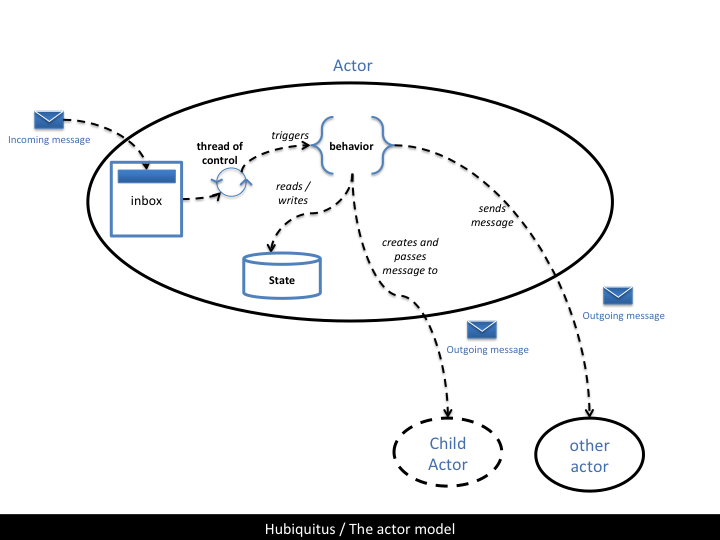
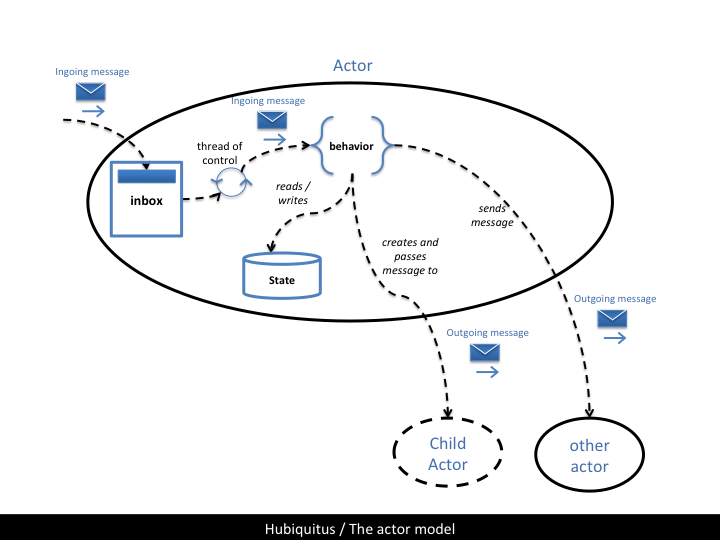
Reference and Introduction merged

diff --git a/docs/Reference.md b/docs/Reference.md
@@ -4,20 +4,49 @@
 
 This document describes the internals of the Hubiquitus framework.
 
-## Hubiquitus at a glance
+## Introduction
 
-Hubiquitus aims to provide a simple way to develop distributed applications as networks of *smart agents*, hosted on various software platforms and user devices, that pass messages to each other to communicate.
+### The question
+
+The post-PC era has come, marked by the emergence of plenty of digital devices - e-readers, smartphones, tablets, TVs, home weather stations, watches, snowboard goggles, tennis rackets, running shoes, boilers, supply meters, and so on - each of them especially adapted to a specific range of use cases and contexts.
+
+More than screens, such devices now ship with an ever growing list of sensors - accelerometers, gyrometers, compass, microphones, cameras, GPS - that permanently observe their immediate proximity, thus enriching the global context data - time, social network posts, open data updates - with local live measures.
+
+Taking advantage of this new digital space involves new requirements regarding the way we build apps:
+
+* **ubiquity**: we need to deploy our apps to any kind of device, operating system or platform.
+* **awareness**: we need to be able to collect any kind of context data - should it come from local sensors, social networks, open data APIs or any other API providing live context data - and send it to any application that could need it.
+* **immediacy**: context moves quickly so its state should be streamed and processed as fast as possible.
+* **persistence**: we should be able to store the context data so that it could be further queried, processed or even replayed.
+
+### Our answer
+
+Hubiquitus aims to provide a simple way to develop apps that fulfill with these requirements. It is basically an ubiquitous programming model for building context-aware distributed live apps as networks of *smart agents*, deployed to various platforms and devices, that use messages to communicate with each other in near real-time.
+
+![agents network](https://github.com/hubiquitus/hubiquitus/raw/master/docs/images/AgentsNetwork.jpg)
+
+The Hubiquitus framework provides the following features:
+
+* **actor-based apps**: the *smart agents* developed using Hubiquitus are basically made of actors, a lightweight form of concurrent computational entities that sequentially process messages from an event-driven receive loop called a Reactor. Each actor makes its own decisions regarding what to do with incoming messages.
+* **message-driven communication**: like humans, Hubiquitus actors are autonomous entities which state is not shared nor synchronized with other actors state. This "share nothing" strategy is enforced by using an asynchronous message-driven communication between actors. Hubiquitus actors can exchange messages through either a point-to-point, a request-reply, a publish-subscribe, a master-worker strategy or a combination of these patterns. Hubiquitus also provides a dynamic content-based message filtering system.
+* **p2p connections**: Hubiquitus adopts a broker-less P2P distribution model in which actors discover and connect each other dynamically at runtime, thus allowing to implement easily resilient and elastic architectures. Peering also provides more direct connections which contribute to reduce communication latency.
+* **fast & lightweight transport**: actors connect each other using various forms of sockets used to transport messages using a very small footprint transport protocol  ; the combination of PGM, TCP and HTML5 Web sockets allows covering most network topologies.
+* **historical data**: the whole messaging history can be transparently logged into various persistent stores.
+* **JavaScript SDK**: the dynamic scripting language of the web may not be the perfect language we all dream about, but it is undoubtedly the most ubiquitous one. It allows developers to code apps that are able to reach practically any device running a JavaScript engine.
+* **bridges to the outside world**: even JavaScript can't run on every platforms, so Hubiquitus provides native bindings for major platforms such as iOS, Android and Windows 8. Hubiquitus also provides a wide range of network adapters allowing to integrate your apps with social networks (Twitter, Google+, …), push notification services (APNS, GCM, …)
+
+## Hubiquitus concepts
 
 ### Actors
 
-The *smart agents* of Hubiquitus are indeed *actors*, as the [Actor Model](http://en.wikipedia.org/wiki/Actor_model) paradigm define them:
+The *smart agents* of Hubiquitus are made of *actors*, as the [Actor Model](http://en.wikipedia.org/wiki/Actor_model) paradigm defines them:
 
 > **An actor is a form of lightweight computational entity that process sequentially incoming messages it receives**
 
 The fundamental properties of an actor are:
 
-* each actor has an **inbox** for incoming messages, a kind of FIFO queue into which other actors can post messages to be processed,
-* each actor has its proper **behavior** that is triggered sequentially for each message received in its inbox,
+* each actor has an **inbox**, a kind of FIFO queue into which other actors and programs can post messages to be processed,
+* each actor implements its own **behavior**, a function that is triggered sequentially for each message received in its inbox,
 * each actor maintains its own **state** that it doesn't share with anyone else ("share nothing" principle); this state can be modified as the actor processes incoming messages.
 * each actor can itself send **messages** to other actors; posting message is asynchronous so that it never blocks the process in which the actor is running,
 * each actor can create **children** to which it will then be able to post messages as to any other actor.
@@ -28,10 +57,10 @@ The following figure summarizes these principles:
 
 ### Adapters
 
-Actors send messages to each other using *adapters* ; both the message emitter and the message receiver need an adapter to enable the communication link:
+**Adapters** are special Hubiquitus components that provide messaging features to actors :
 
-* an adapter is used by the message emitter to send the message over the network
-* another adapter is used by the message receiver to received the message from the network
+* actors need **inbound adapters** to listen to ingoing messages from the outside world
+* actors need **outbound adapters** to send outgoing messages to the outside world
 
 The figure below explains this principle:
 ![adapters](https://github.com/hubiquitus/hubiquitus/raw/master/docs/images/Adapters.png)

diff --git a/docs/Introduction.md b/docs/Introduction.md
@@ -21,10 +21,10 @@ Hubiquitus aims to provide a simple way to develop apps that fulfill with these 
 
 * **actor-based apps**: applications developed using Hubiquitus are basically made of actors, a lightweight form of concurrent computational entities that sequentially process messages from an event-driven receive loop called a Reactor. Each actor makes its own decisions regarding what to do with incoming messages.
 * **JavaScript SDK**: the dynamic scripting language of the web may not be the perfect language we all dream about, but it is undoubtedly the most ubiquitous one. It allows developers to code apps that are able to reach practically any device running a JavaScript engine.
-* **message-driven communication**: like humans, Hubiquitus actors are autonomous entities which state is not share nor synchronized with other actors state. This "share nothing" strategy is enforced by using an asynchronous message-driven communication between actors. Hubiquitus actors can exchange messages through either a point-to-point, a request-reply, a publish-subscribe, a master-worker strategy or a combination of these patterns. Hubiquitus also provides a dynamic content-based message filtering system.
+* **message-driven communication**: like humans, Hubiquitus actors are autonomous entities which state is not shared nor synchronized with other actors state. This "share nothing" strategy is enforced by using an asynchronous message-driven communication between actors. Hubiquitus actors can exchange messages through either a point-to-point, a request-reply, a publish-subscribe, a master-worker strategy or a combination of these patterns. Hubiquitus also provides a dynamic content-based message filtering system.
 * **p2p connections**: Hubiquitus adopts a broker-less P2P distribution model in which actors discover and connect each other dynamically at runtime, thus allowing to implement easily resilient and elastic architectures. Peering also provides more direct connections which contribute to reduce communication latency.
 * **fast & lightweight transport**: actors connect each other using various forms of sockets used to transport messages using a very small footprint transport protocol  ; the combination of PGM, TCP and HTML5 Web sockets allows covering most network topologies.
-* **historical data**: the whole messaging history is transparently persisted into a NoSQL database.
+* **historical data**: the whole messaging history can be transparently logged into various persistent stores.
 * **bridges to the outside world**: even JavaScript can't run on every platforms, so Hubiquitus provides native bindings for major platforms such as iOS, Android and Windows 8. Hubiquitus also provides a wide range of network adapters allowing to integrate your apps with social networks (Twitter, Google+, …), push notification services (APNS, GCM, …)
 
 ### We stand on the shoulders of giants!
